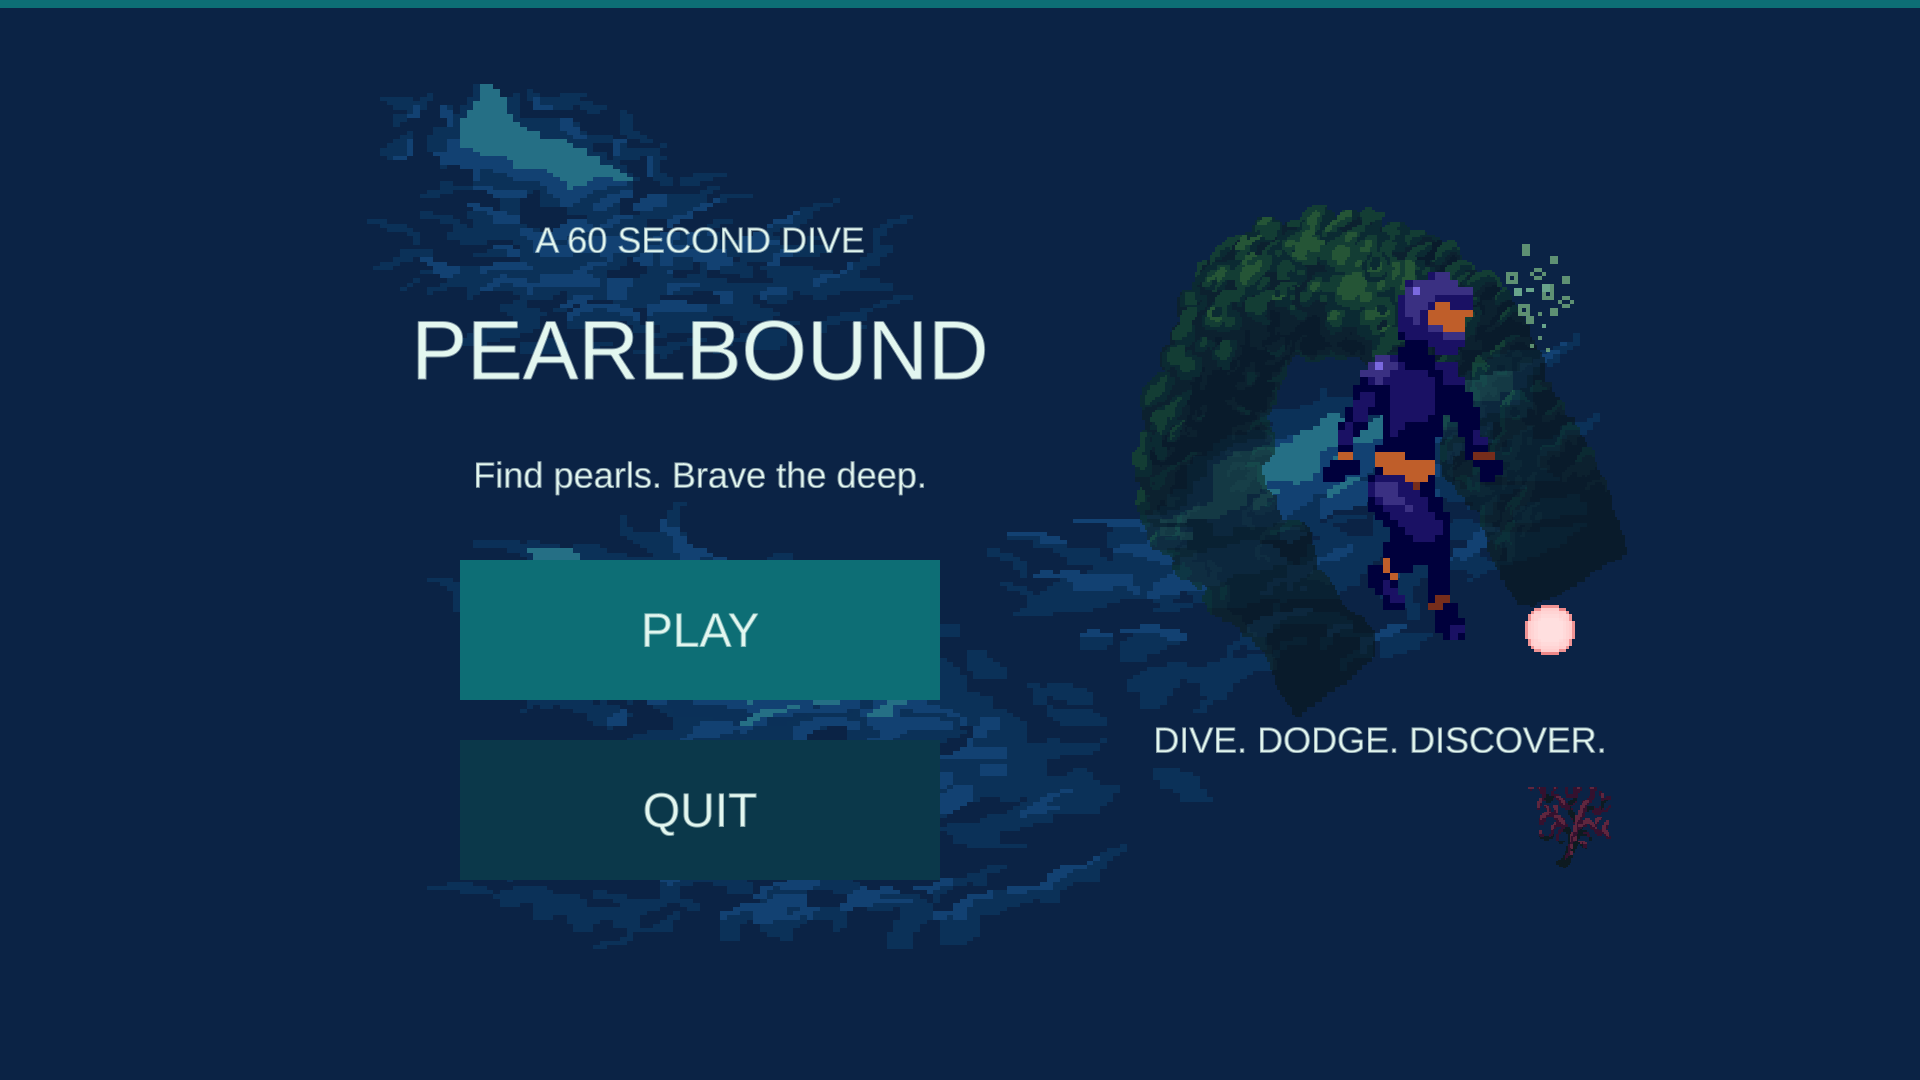
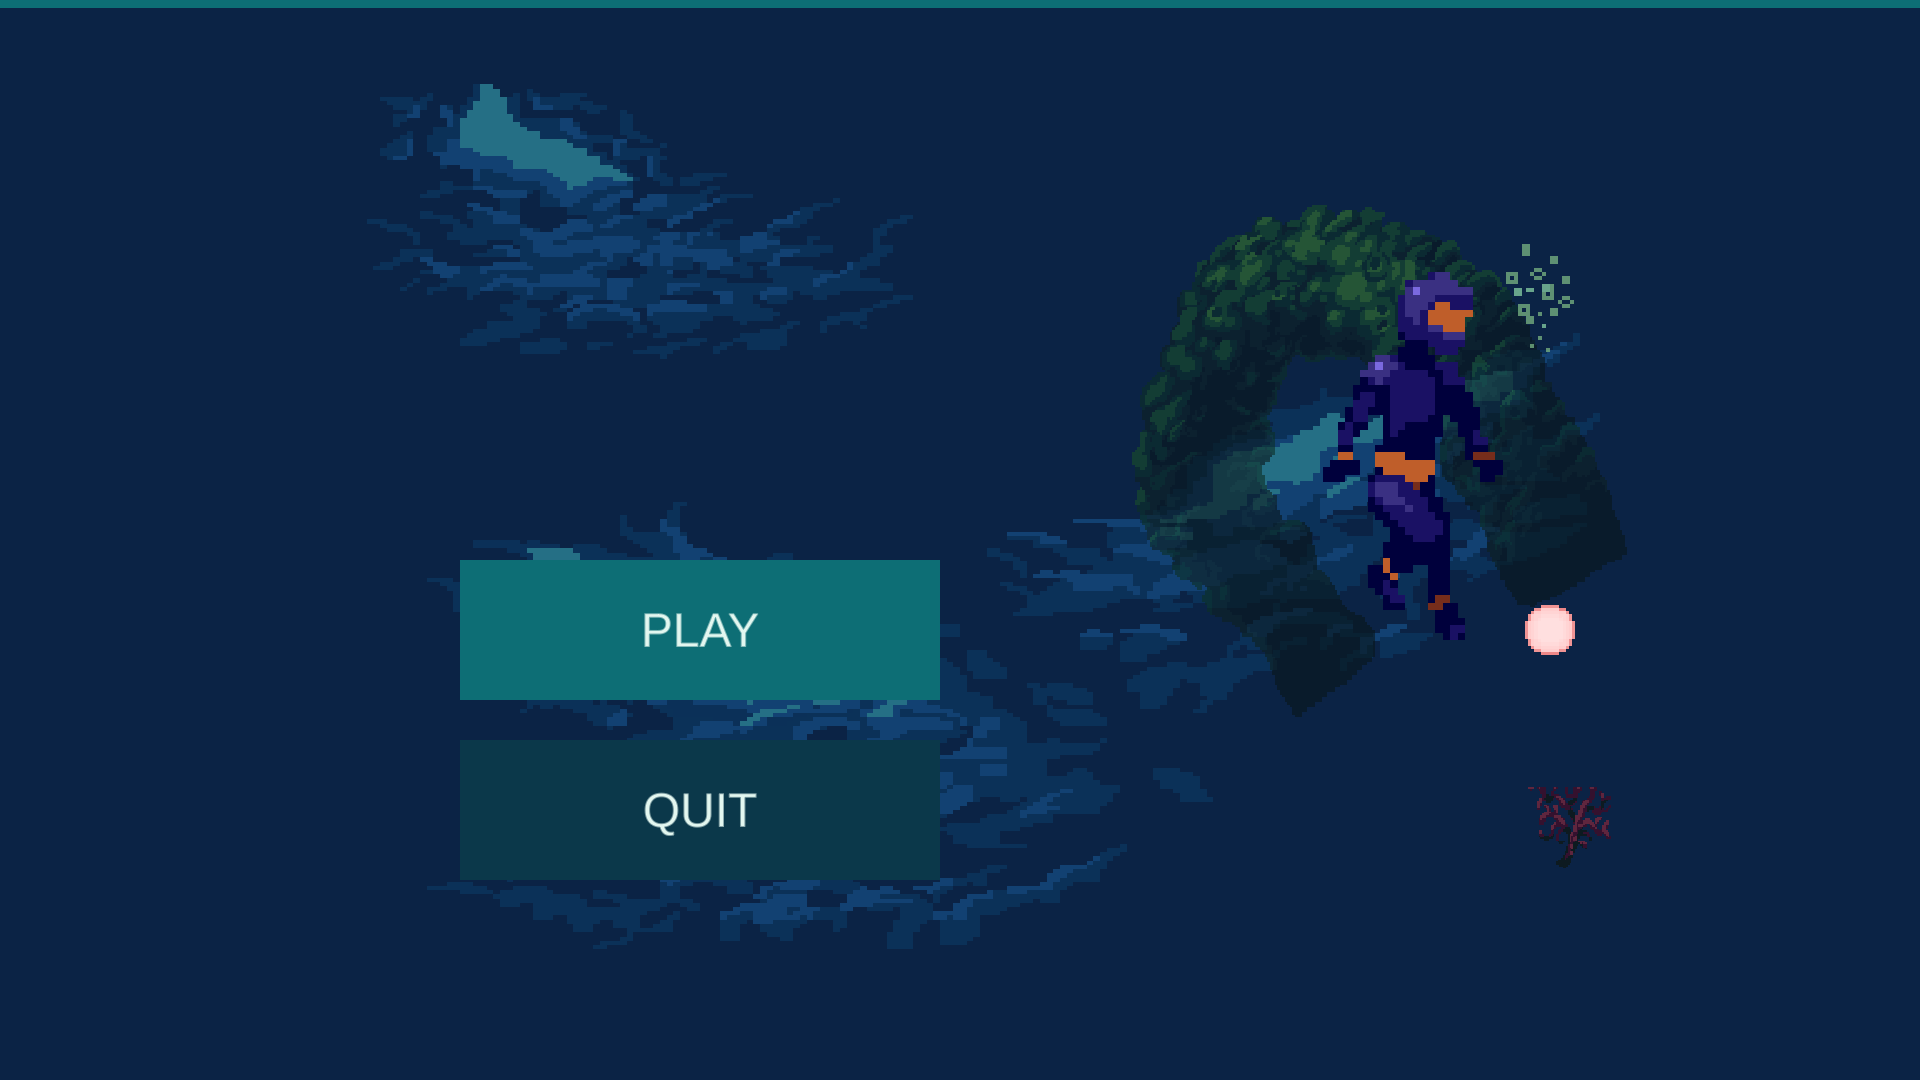
Refresh simulator screenshots for the simplified menu

diff --git a/Docs/Verification.md b/Docs/Verification.md
@@ -20,3 +20,5 @@ Native Device Simulator, landscape:
 Temporary scene-authoring and automated verification scripts are excluded from the delivered Assets. The gameplay scripts remain the earlier instructor-based scripts; HUD labels changed for the new concept. New visual work consists of sprite imports, animation frames, prefab appearance, scene art and UI styling, with a collider fitted to the diver.
 
 Limits: Editor Play Mode and simulated screen layouts were checked. No Android APK or physical-device run is included. The English MP4 with the student's own voice and the Canvas upload are still required; see Kickoff-Checklist.md and English-Video-Guide.txt.
+
+Screenshot refresh: all five native Device Simulator captures were retaken after simplifying the menu to Play and Quit. Each resulting PNG was visually reviewed. The game title and extra menu captions are hidden by request; the original Kickoff title requirement is flagged in Kickoff-Checklist.md.

diff --git a/Docs/Kickoff-Checklist.md b/Docs/Kickoff-Checklist.md
@@ -19,7 +19,7 @@
 | Public repository | https://github.com/Whatever28/pearlbound-mobile |
 | 3+ meaningful commits from the student's account | Git history authored by Whatever28; earlier foundation plus underwater asset/theme/document commits |
 | Feature branch merged through PR | feature/pearlbound-underwater; merged PR linked in repository |
-| Main Menu title / Play / Quit | Assets/Scenes/MainMenu.unity; Docs/Screenshots/01_Menu.png |
+| Main Menu title / Play / Quit | Play and Quit work; the title and extra captions are hidden at the user's request. Kickoff originally requires a visible title. Updated capture: Docs/Screenshots/01_Menu.png |
 | HUD hearts / score / pause / mobile controls | Assets/Scenes/Game.unity; three HUD screenshots |
 | Pause Resume / Restart / Menu and frozen time | Game PausePanel; Docs/Screenshots/05_Pause.png |
 | Canvas Scaler 1920x1080, Match 1 | UI Canvas in both scenes |
